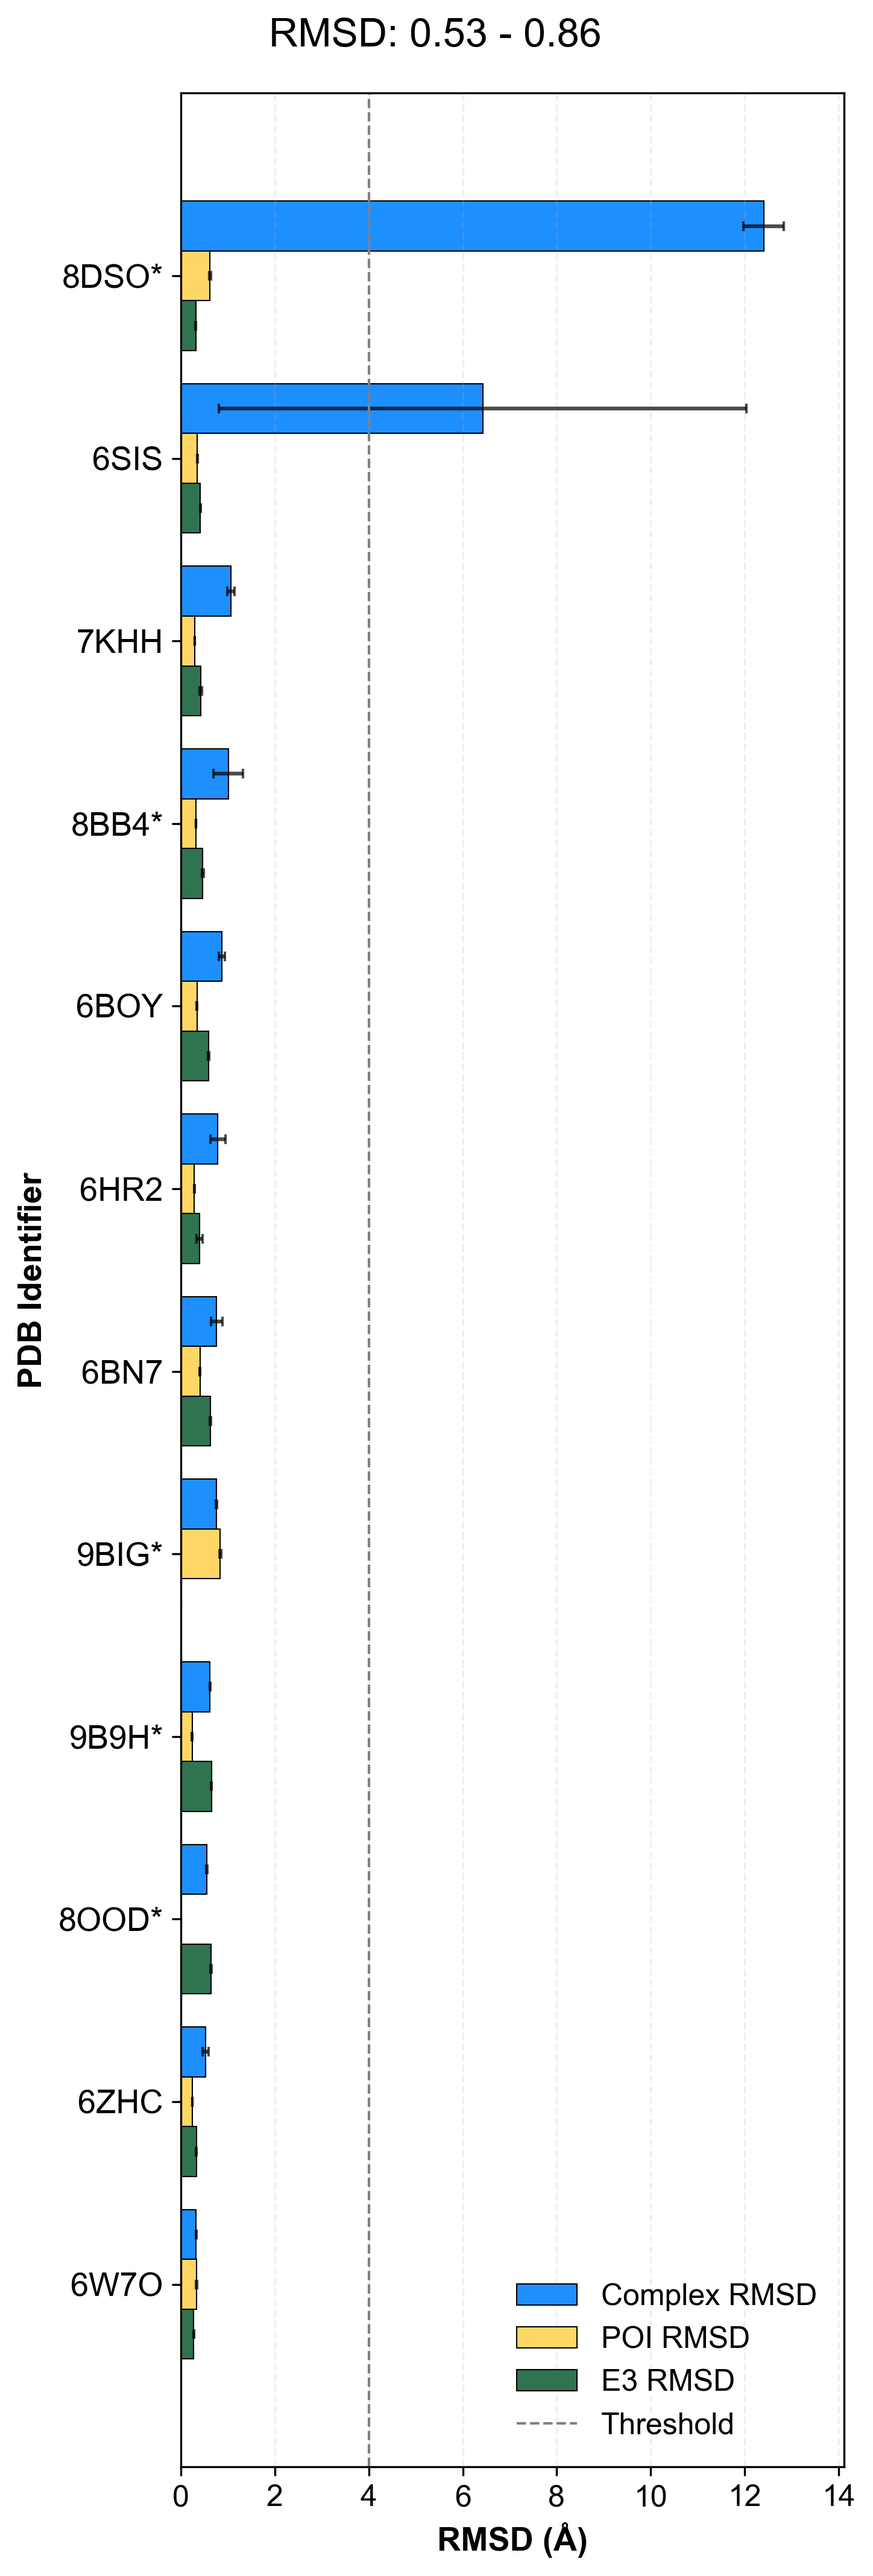
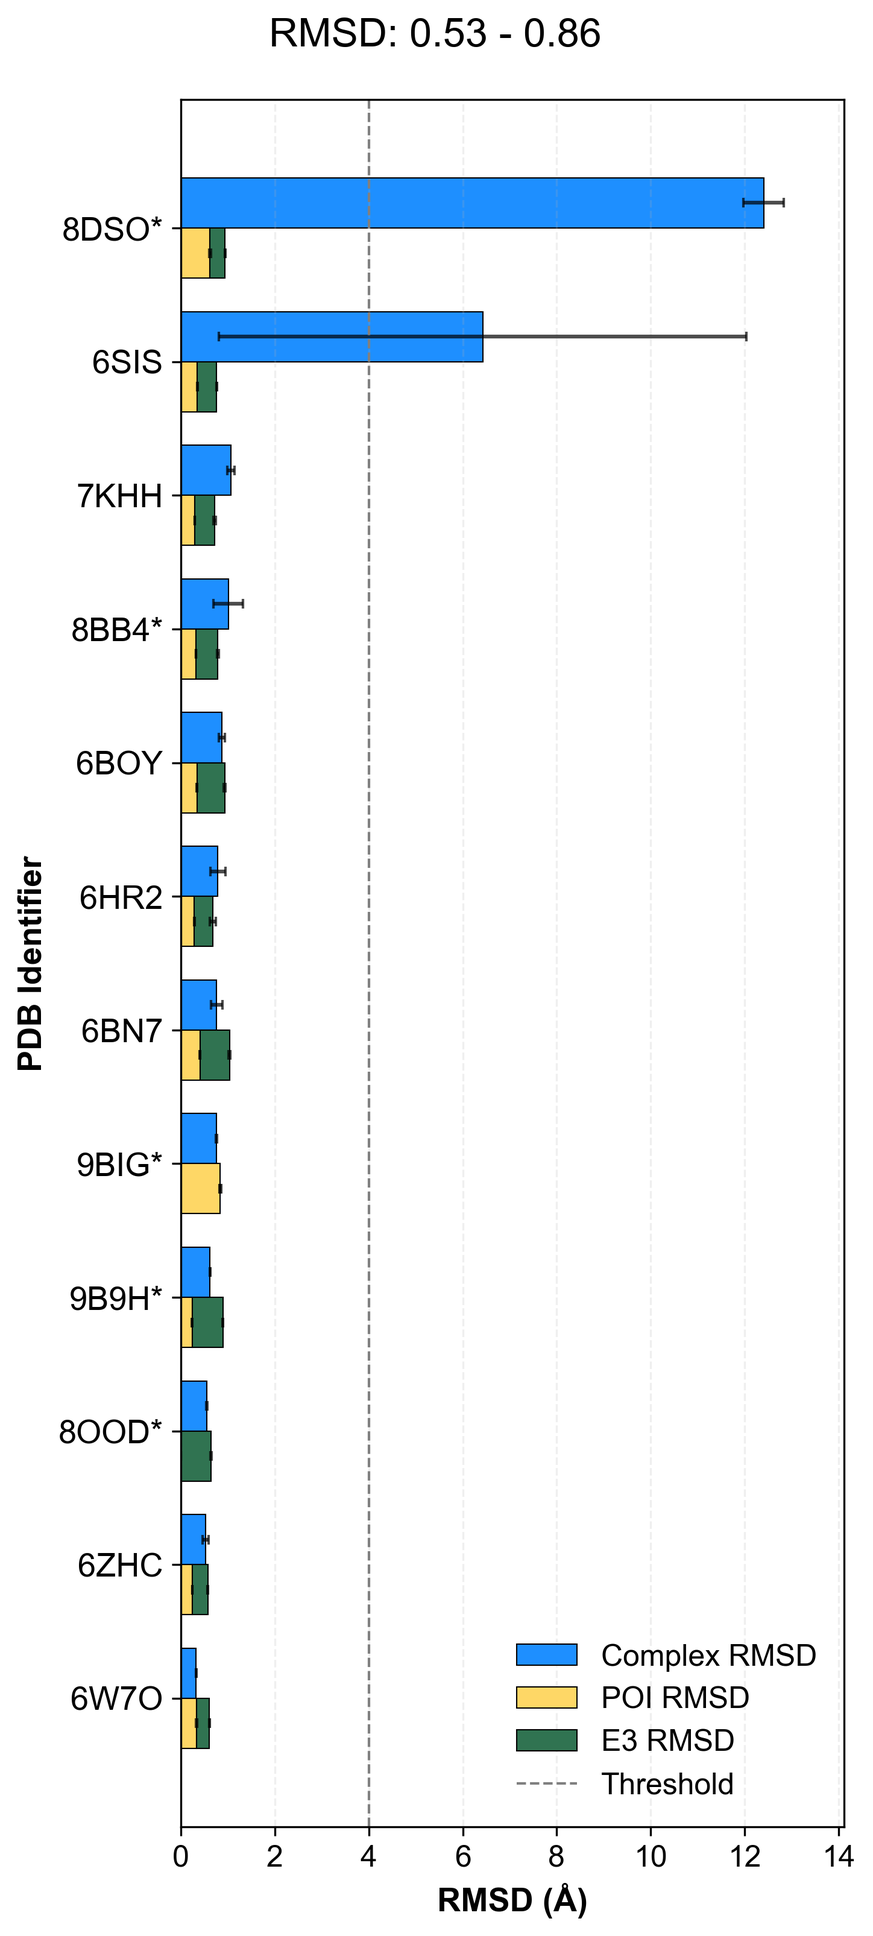
improving plots, needs refactoring

diff --git a/src/plots/rmsd_complex_isolated.py b/src/plots/rmsd_complex_isolated.py
@@ -343,8 +343,9 @@ class RMSDComplexIsolatedPlotter(BasePlotter):
                 n_pdbs_on_page = len(page_data_agg)
                 
                 # Dynamic height calculation considering inter-group spacing
-                num_components = len(component_cols)
-                height_of_one_pdb_bar_group = num_components * self.BAR_HEIGHT_HORIZONTAL + (num_components - 1) * self.BAR_SPACING_HORIZONTAL
+                # Changed: Now we have 2 bar groups per PDB (Complex + POI/E3 stacked)
+                num_bar_groups_per_pdb = 2  # Complex bar + POI/E3 stacked bar
+                height_of_one_pdb_bar_group = num_bar_groups_per_pdb * self.BAR_HEIGHT_HORIZONTAL + (num_bar_groups_per_pdb - 1) * self.BAR_SPACING_HORIZONTAL
                 total_bar_group_height_all_pdbs = n_pdbs_on_page * height_of_one_pdb_bar_group
                 total_inter_group_spacing = (n_pdbs_on_page - 1) * self.PDB_INTER_GROUP_SPACING if n_pdbs_on_page > 0 else 0
                 plot_height = max(5, 1.5 + total_bar_group_height_all_pdbs + total_inter_group_spacing) # 1.5 for margins
@@ -367,31 +368,69 @@ class RMSDComplexIsolatedPlotter(BasePlotter):
 
                 max_rmsd_on_page = 0
 
-                for i, (col, color, label) in enumerate(zip(component_cols, component_colors, component_labels)):
-                    # y_offsets are relative to y_pos_base, using BAR_SPACING_HORIZONTAL for within-group spacing
-                    y_offsets = y_pos_base + i * (self.BAR_HEIGHT_HORIZONTAL + self.BAR_SPACING_HORIZONTAL)
-                    
-                    mean_col_name = f"{col}_mean"
-                    std_col_name = f"{col}_std"
-                    count_col_name = f"{col}_count"
-                    
-                    values = page_data_agg[mean_col_name].fillna(0).values if mean_col_name in page_data_agg else np.zeros(n_pdbs_on_page)
-                    stds = page_data_agg[std_col_name].fillna(0).values if std_col_name in page_data_agg else np.zeros(n_pdbs_on_page)
-                    counts = page_data_agg[count_col_name].fillna(1).values if count_col_name in page_data_agg else np.ones(n_pdbs_on_page)
-                    
-                    # Calculate standard error: std / sqrt(count). Ensure counts are not zero.
-                    # np.errstate handles division by zero if any count is 0 (though fillna(1) avoids this for count).
-                    with np.errstate(divide='ignore', invalid='ignore'):
-                        x_errors = stds / np.sqrt(counts)
-                    x_errors = np.nan_to_num(x_errors) # Replace NaN (e.g. from count=1 -> std=NaN) with 0
+                # Extract component information
+                complex_col, poi_col, e3_col = component_cols[0], component_cols[1], component_cols[2]
+                complex_color, poi_color, e3_color = component_colors[0], component_colors[1], component_colors[2]
+                complex_label, poi_label, e3_label = component_labels[0], component_labels[1], component_labels[2]
 
-                    ax.barh(y_offsets, values, height=self.BAR_HEIGHT_HORIZONTAL, xerr=x_errors,
-                            facecolor=color, edgecolor='black', linewidth=0.5, label=label if page_num ==1 and i==0 else None, 
-                            error_kw={'ecolor': 'black', 'capsize': 2, 'alpha':0.7})
-                    
-                    current_max = np.nanmax(values + x_errors) if len(values) > 0 else 0 # Consider error for max value
-                    if current_max > max_rmsd_on_page:
-                        max_rmsd_on_page = current_max
+                # Calculate y positions for the two bar groups per PDB
+                y_pos_complex = y_pos_base  # First bar group: Complex RMSD
+                y_pos_stacked = y_pos_base + (self.BAR_HEIGHT_HORIZONTAL + self.BAR_SPACING_HORIZONTAL)  # Second bar group: POI+E3 stacked
+
+                # Get values for all three components
+                complex_mean_col = f"{complex_col}_mean"
+                poi_mean_col = f"{poi_col}_mean"
+                e3_mean_col = f"{e3_col}_mean"
+                complex_std_col = f"{complex_col}_std"
+                poi_std_col = f"{poi_col}_std"
+                e3_std_col = f"{e3_col}_std"
+                complex_count_col = f"{complex_col}_count"
+                poi_count_col = f"{poi_col}_count"
+                e3_count_col = f"{e3_col}_count"
+
+                # Extract values and calculate errors
+                complex_values = page_data_agg[complex_mean_col].fillna(0).values if complex_mean_col in page_data_agg else np.zeros(n_pdbs_on_page)
+                poi_values = page_data_agg[poi_mean_col].fillna(0).values if poi_mean_col in page_data_agg else np.zeros(n_pdbs_on_page)
+                e3_values = page_data_agg[e3_mean_col].fillna(0).values if e3_mean_col in page_data_agg else np.zeros(n_pdbs_on_page)
+                
+                complex_stds = page_data_agg[complex_std_col].fillna(0).values if complex_std_col in page_data_agg else np.zeros(n_pdbs_on_page)
+                poi_stds = page_data_agg[poi_std_col].fillna(0).values if poi_std_col in page_data_agg else np.zeros(n_pdbs_on_page)
+                e3_stds = page_data_agg[e3_std_col].fillna(0).values if e3_std_col in page_data_agg else np.zeros(n_pdbs_on_page)
+                
+                complex_counts = page_data_agg[complex_count_col].fillna(1).values if complex_count_col in page_data_agg else np.ones(n_pdbs_on_page)
+                poi_counts = page_data_agg[poi_count_col].fillna(1).values if poi_count_col in page_data_agg else np.ones(n_pdbs_on_page)
+                e3_counts = page_data_agg[e3_count_col].fillna(1).values if e3_count_col in page_data_agg else np.ones(n_pdbs_on_page)
+
+                # Calculate standard errors
+                with np.errstate(divide='ignore', invalid='ignore'):
+                    complex_x_errors = complex_stds / np.sqrt(complex_counts)
+                    poi_x_errors = poi_stds / np.sqrt(poi_counts)
+                    e3_x_errors = e3_stds / np.sqrt(e3_counts)
+                complex_x_errors = np.nan_to_num(complex_x_errors)
+                poi_x_errors = np.nan_to_num(poi_x_errors)
+                e3_x_errors = np.nan_to_num(e3_x_errors)
+
+                # Plot Complex RMSD (single horizontal bar)
+                ax.barh(y_pos_complex, complex_values, height=self.BAR_HEIGHT_HORIZONTAL, xerr=complex_x_errors,
+                        facecolor=complex_color, edgecolor='black', linewidth=0.5, label=complex_label if page_num == 1 else None,
+                        error_kw={'ecolor': 'black', 'capsize': 2, 'alpha': 0.7})
+
+                # Plot POI RMSD (base of stacked bar)
+                ax.barh(y_pos_stacked, poi_values, height=self.BAR_HEIGHT_HORIZONTAL, xerr=poi_x_errors,
+                        facecolor=poi_color, edgecolor='black', linewidth=0.5, label=poi_label if page_num == 1 else None,
+                        error_kw={'ecolor': 'black', 'capsize': 2, 'alpha': 0.7})
+
+                # Plot E3 RMSD (stacked on top of POI)
+                ax.barh(y_pos_stacked, e3_values, left=poi_values, height=self.BAR_HEIGHT_HORIZONTAL, xerr=e3_x_errors,
+                        facecolor=e3_color, edgecolor='black', linewidth=0.5, label=e3_label if page_num == 1 else None,
+                        error_kw={'ecolor': 'black', 'capsize': 2, 'alpha': 0.7})
+
+                # Update max RMSD considering all components
+                complex_max = np.nanmax(complex_values + complex_x_errors) if len(complex_values) > 0 else 0
+                poi_max = np.nanmax(poi_values + poi_x_errors) if len(poi_values) > 0 else 0
+                e3_max = np.nanmax(e3_values + e3_x_errors) if len(e3_values) > 0 else 0
+                stacked_max = np.nanmax((poi_values + e3_values) + np.sqrt(poi_x_errors**2 + e3_x_errors**2)) if len(poi_values) > 0 else 0
+                max_rmsd_on_page = max(complex_max, stacked_max)
                 
                 ax.set_xlabel(f'RMSD (Å)', fontsize=self.PER_PDB_AXIS_LABEL_FONT_SIZE, fontweight='bold')
                 ax.set_ylabel('PDB Identifier', fontsize=self.PER_PDB_AXIS_LABEL_FONT_SIZE, fontweight='bold')
@@ -403,9 +442,13 @@ class RMSDComplexIsolatedPlotter(BasePlotter):
 
                 # Legend
                 handles, labels_legend = [], []
-                for i, (col, color, label_text) in enumerate(zip(component_cols, component_colors, component_labels)):
-                     handles.append(plt.Rectangle((0,0),1,1, facecolor=color, edgecolor='black', linewidth=0.5))
-                     labels_legend.append(label_text)
+                # Add legend entries for all three components
+                handles.append(plt.Rectangle((0,0),1,1, facecolor=complex_color, edgecolor='black', linewidth=0.5))
+                labels_legend.append(complex_label)
+                handles.append(plt.Rectangle((0,0),1,1, facecolor=poi_color, edgecolor='black', linewidth=0.5))
+                labels_legend.append(poi_label)
+                handles.append(plt.Rectangle((0,0),1,1, facecolor=e3_color, edgecolor='black', linewidth=0.5))
+                labels_legend.append(e3_label)
 
                 current_threshold_value = threshold_value if threshold_value is not None else self.DEFAULT_RMSD_THRESHOLD
                 if add_threshold:
